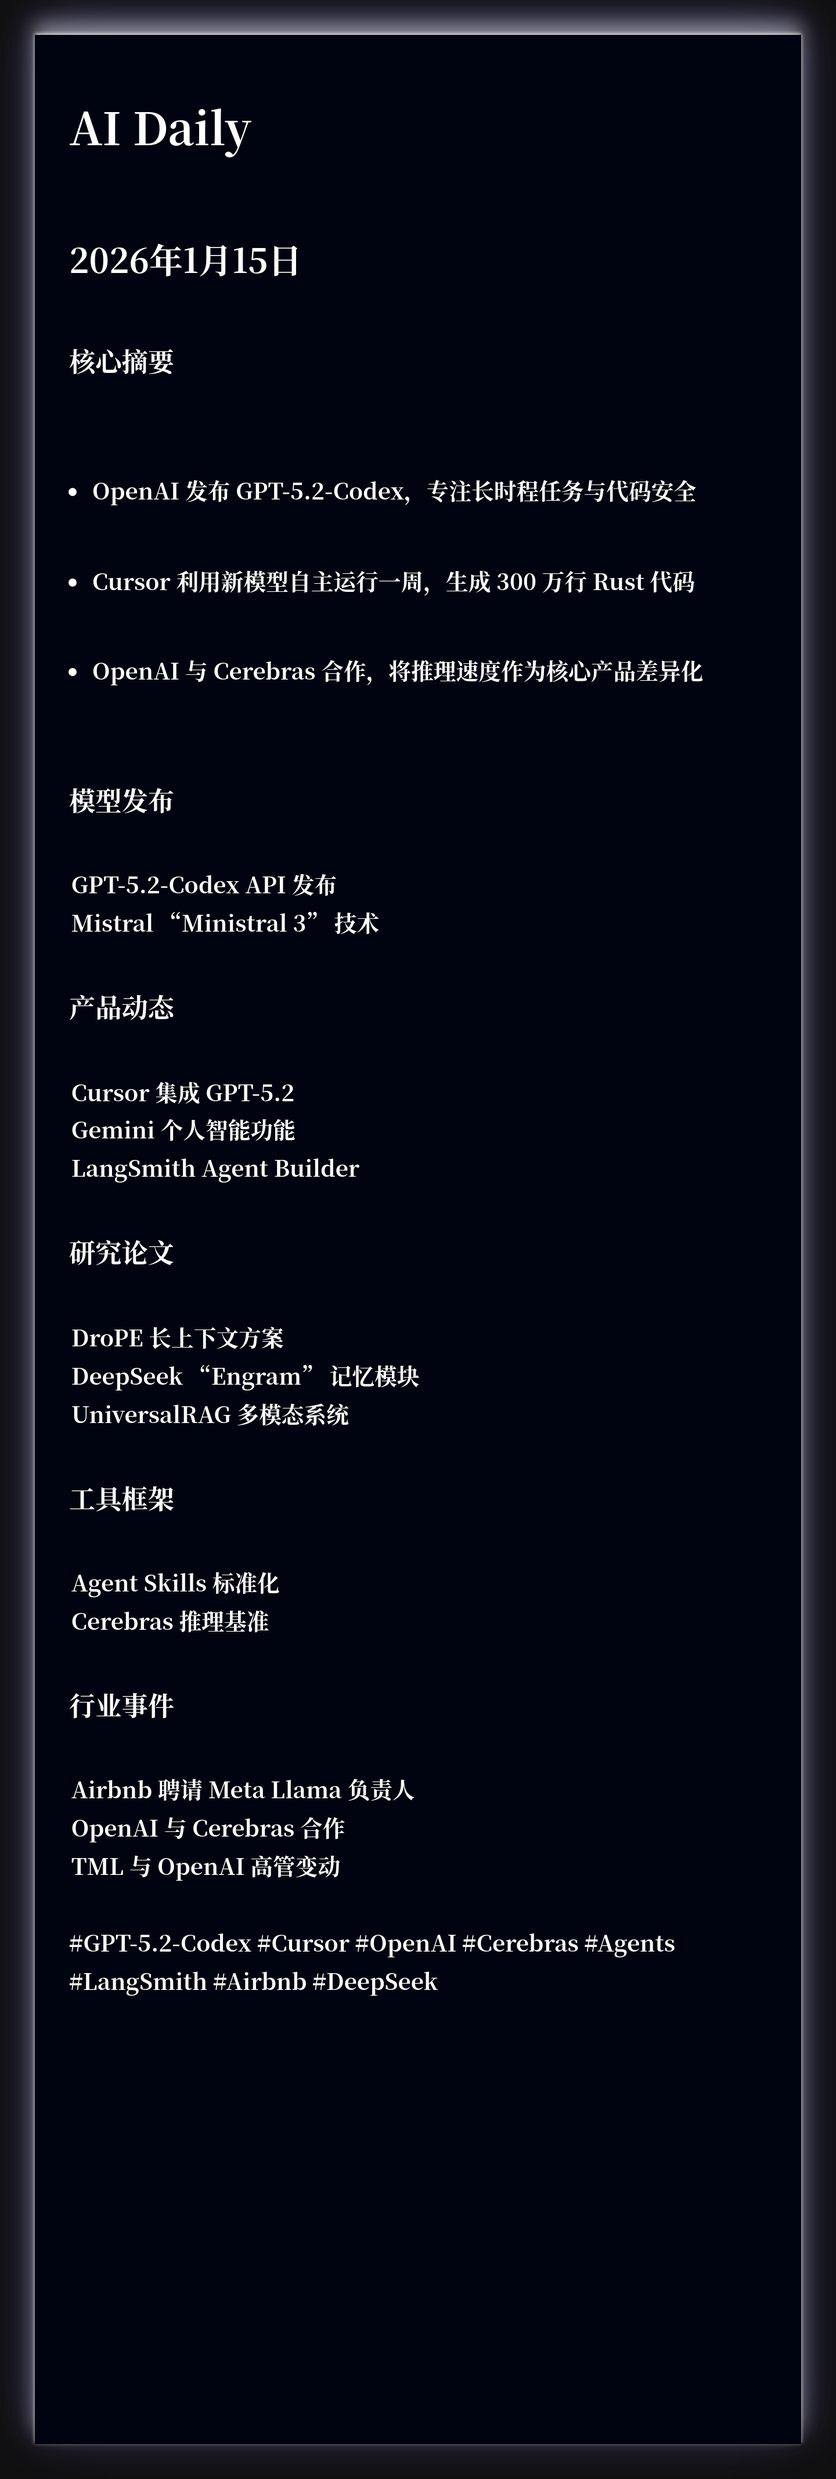
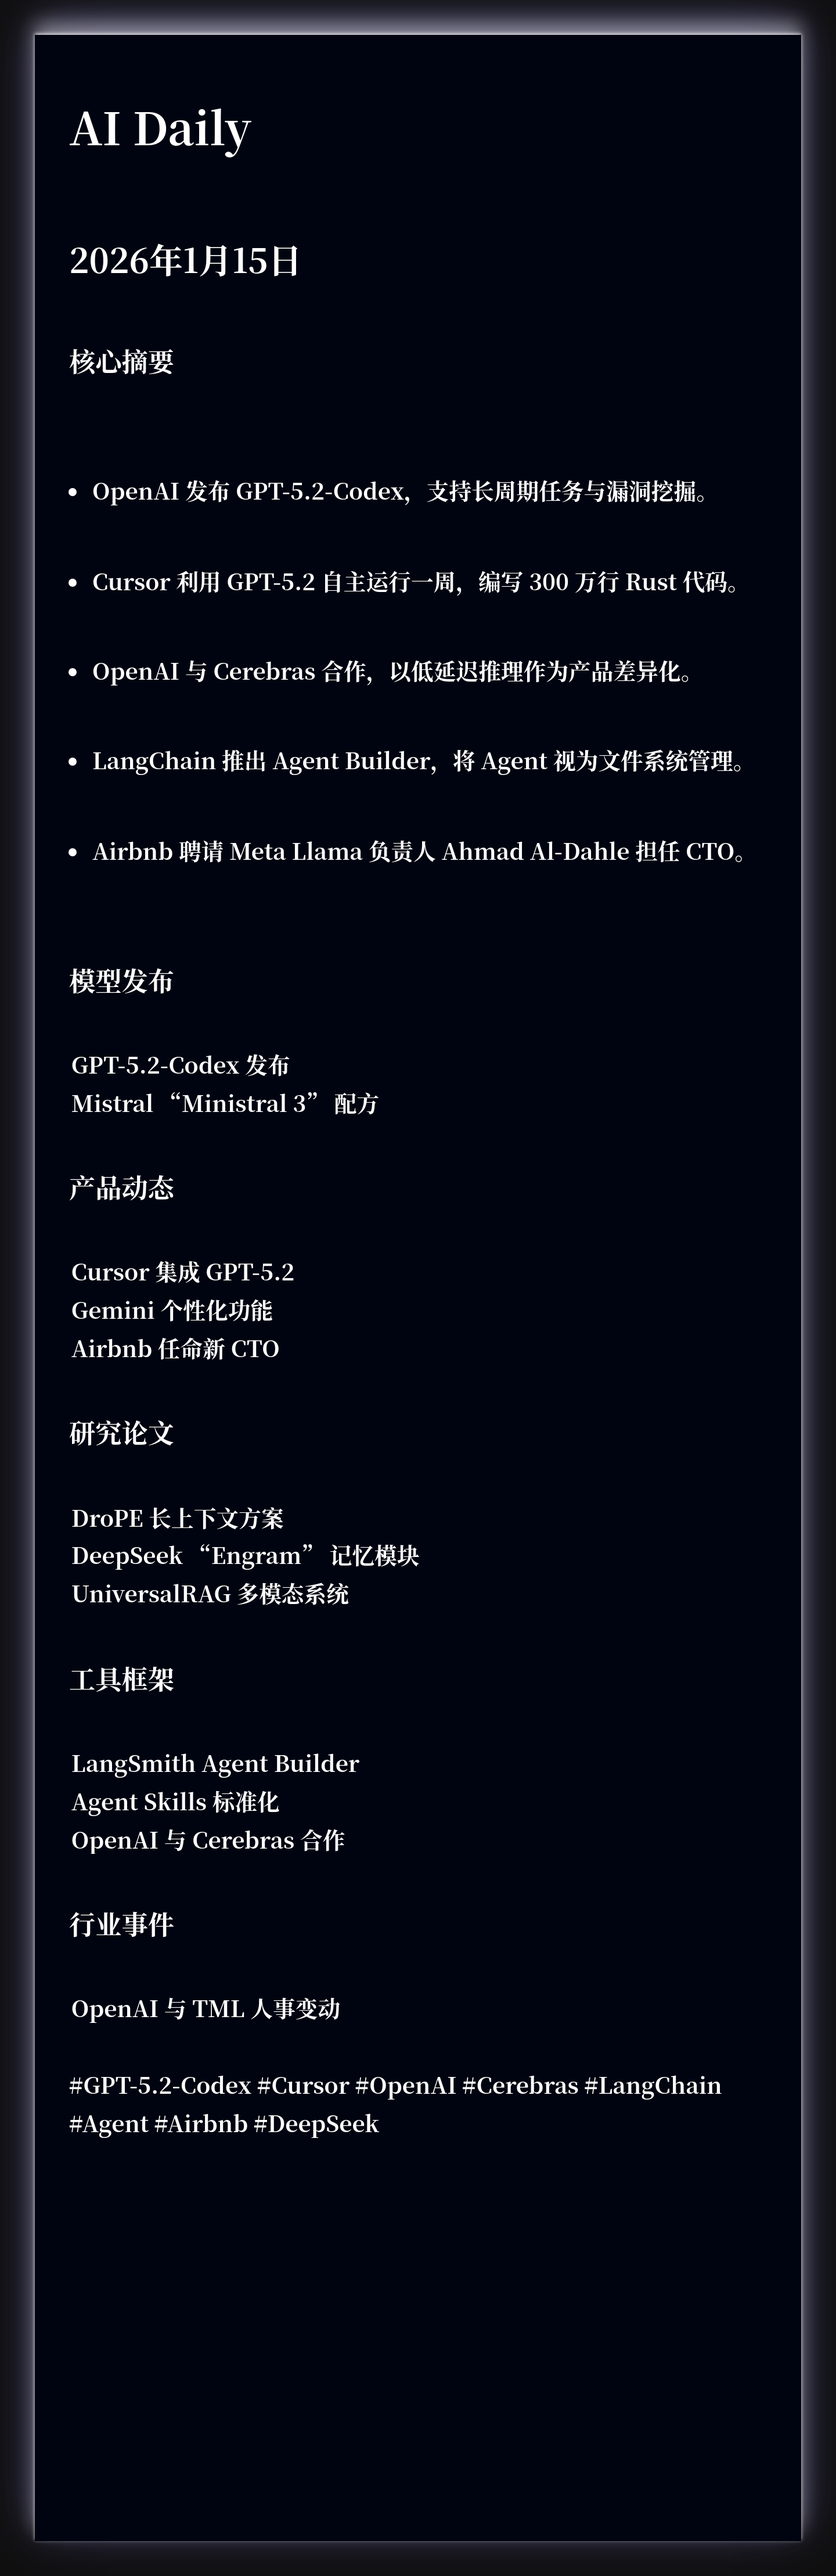
🤖 Auto update AI Daily - {{ date }} ad01645f703d705dcbc97d370f682ebb259aa11e

diff --git a/2026-01-15.html b/2026-01-15.html
@@ -5,7 +5,7 @@
     <meta name="viewport" content="width=device-width, initial-scale=1.0">
     <title>AI Daily · 2026年1月15日 星期四</title>
     <meta name="description" content="每日 AI 前沿资讯，智能分类，快速掌握核心动态">
-    <meta name="keywords" content="GPT-5.2-Codex, Cursor, OpenAI, Cerebras, Agents, LangSmith, Airbnb, DeepSeek, AI, 人工智能, 机器学习, 深度学习, 资讯, 日报">
+    <meta name="keywords" content="GPT-5.2-Codex, Cursor, OpenAI, Cerebras, LangChain, Agent, Airbnb, DeepSeek, Mistral, Gemini, AI, 人工智能, 机器学习, 深度学习, 资讯, 日报">
     <link rel="stylesheet" href="css/styles.css">
 </head>
 <body data-theme="blue">
@@ -24,9 +24,11 @@
             <section class="summary-card">
                 <h2 class="section-title">📌 今日核心摘要</h2>
                 <ul class="summary-list">
-                <li class="summary-item">OpenAI 发布 GPT-5.2-Codex，专注长时程任务与代码安全</li>
-                <li class="summary-item">Cursor 利用新模型自主运行一周，生成 300 万行 Rust 代码</li>
-                <li class="summary-item">OpenAI 与 Cerebras 合作，将推理速度作为核心产品差异化</li>
+                <li class="summary-item">OpenAI 发布 GPT-5.2-Codex，支持长周期任务与漏洞挖掘。</li>
+                <li class="summary-item">Cursor 利用 GPT-5.2 自主运行一周，编写 300 万行 Rust 代码。</li>
+                <li class="summary-item">OpenAI 与 Cerebras 合作，以低延迟推理作为产品差异化。</li>
+                <li class="summary-item">LangChain 推出 Agent Builder，将 Agent 视为文件系统管理。</li>
+                <li class="summary-item">Airbnb 聘请 Meta Llama 负责人 Ahmad Al-Dahle 担任 CTO。</li>
                 </ul>
             </section>
 
@@ -41,19 +43,19 @@
 
                 <article class="news-card">
                     <div class="news-card-header">
-                        <h3 class="news-title">GPT-5.2-Codex API 发布</h3>
+                        <h3 class="news-title">GPT-5.2-Codex 发布</h3>
                         <a href="https://twitter.com/OpenAIDevs/status/2011499597169115219" class="item-link" target="_blank" rel="noopener">详情</a>
                     </div>
-                    <p class="news-summary">OpenAI 推出最强代码模型，支持长时程任务与漏洞挖掘</p>
+                    <p class="news-summary">OpenAI 推出最强代码模型，专注长周期任务与代码漏洞挖掘。</p>
                     <div class="item-tags"><span class="tag">#OpenAI</span> <span class="tag">#GPT-5.2</span> <span class="tag">#Codex</span></div>
                 </article>
 
                 <article class="news-card">
                     <div class="news-card-header">
-                        <h3 class="news-title">Mistral "Ministral 3" 技术</h3>
+                        <h3 class="news-title">Mistral "Ministral 3" 配方</h3>
                         <a href="https://twitter.com/eliebakouch/status/2011548952676499480" class="item-link" target="_blank" rel="noopener">详情</a>
                     </div>
-                    <p class="news-summary">公开小模型配方，强调剪枝与蒸馏技术及具体启发式方法</p>
+                    <p class="news-summary">公布基于剪枝和蒸馏的小模型技术报告，包含具体剪枝启发式算法。</p>
                     <div class="item-tags"><span class="tag">#Mistral</span> <span class="tag">#Pruning</span> <span class="tag">#Distillation</span></div>
                 </article>
 
@@ -73,26 +75,26 @@
                         <h3 class="news-title">Cursor 集成 GPT-5.2</h3>
                         <a href="https://twitter.com/cursor_ai/status/2011500027945033904" class="item-link" target="_blank" rel="noopener">详情</a>
                     </div>
-                    <p class="news-summary">集成新模型并展示自主运行一周构建浏览器的案例</p>
-                    <div class="item-tags"><span class="tag">#Cursor</span> <span class="tag">#Agents</span> <span class="tag">#Autonomous</span></div>
+                    <p class="news-summary">Cursor 集成新模型并展示 Agent 自主运行一周构建浏览器的案例。</p>
+                    <div class="item-tags"><span class="tag">#Cursor</span> <span class="tag">#Agent</span> <span class="tag">#IDE</span></div>
                 </article>
 
                 <article class="news-card">
                     <div class="news-card-header">
-                        <h3 class="news-title">Gemini 个人智能功能</h3>
+                        <h3 class="news-title">Gemini 个性化功能</h3>
                         <a href="https://twitter.com/Google/status/2011473056921706852" class="item-link" target="_blank" rel="noopener">详情</a>
                     </div>
-                    <p class="news-summary">Google 连接 Gmail 和 Photos 等应用推出个性化功能</p>
+                    <p class="news-summary">Google 推出 Gemini Personal Intelligence，连接 Gmail、Photos 等应用数据。</p>
                     <div class="item-tags"><span class="tag">#Google</span> <span class="tag">#Gemini</span> <span class="tag">#Personalization</span></div>
                 </article>
 
                 <article class="news-card">
                     <div class="news-card-header">
-                        <h3 class="news-title">LangSmith Agent Builder</h3>
-                        <a href="https://twitter.com/LangChain/status/2011501888735494184" class="item-link" target="_blank" rel="noopener">详情</a>
+                        <h3 class="news-title">Airbnb 任命新 CTO</h3>
+                        <a href="https://twitter.com/Ahmad_Al_Dahle/status/2011440460821320056" class="item-link" target="_blank" rel="noopener">详情</a>
                     </div>
-                    <p class="news-summary">LangChain 发布代理构建器，支持技能、内存和子代理</p>
-                    <div class="item-tags"><span class="tag">#LangChain</span> <span class="tag">#Agents</span> <span class="tag">#Builder</span></div>
+                    <p class="news-summary">Meta Llama 项目负责人 Ahmad Al-Dahle 离职并加入 Airbnb 担任 CTO。</p>
+                    <div class="item-tags"><span class="tag">#Airbnb</span> <span class="tag">#Meta</span> <span class="tag">#CTO</span></div>
                 </article>
 
                 </div>
@@ -111,16 +113,16 @@
                         <h3 class="news-title">DroPE 长上下文方案</h3>
                         <a href="https://twitter.com/gabriberton/status/2011326182986564090" class="item-link" target="_blank" rel="noopener">详情</a>
                     </div>
-                    <p class="news-summary">提出移除 RoPE 并微调的简单配方，改善长上下文行为</p>
+                    <p class="news-summary">研究提出移除 RoPE 并微调无位置嵌入模型，改善长上下文行为。</p>
                     <div class="item-tags"><span class="tag">#RoPE</span> <span class="tag">#Long Context</span> <span class="tag">#Fine-tuning</span></div>
                 </article>
 
                 <article class="news-card">
                     <div class="news-card-header">
                         <h3 class="news-title">DeepSeek "Engram" 记忆模块</h3>
-                        <a href="https://twitter.com/ZhihuFrontier/status/2011357373772845097" class="item-link" target="_blank" rel="noopener">详情</a>
+                        <a href="https://twitter.com/LiorOnAI/status/2011468534887469448" class="item-link" target="_blank" rel="noopener">详情</a>
                     </div>
-                    <p class="news-summary">探讨分离思考与记忆，使用稀疏存储进行 O(1) 查找</p>
+                    <p class="news-summary">探讨将思考与记忆分离，利用 MoE 计算与 Engram 稀疏存储机制。</p>
                     <div class="item-tags"><span class="tag">#DeepSeek</span> <span class="tag">#Memory</span> <span class="tag">#MoE</span></div>
                 </article>
 
@@ -129,7 +131,7 @@
                         <h3 class="news-title">UniversalRAG 多模态系统</h3>
                         <a href="https://twitter.com/omarsar0/status/2011442693134754243" class="item-link" target="_blank" rel="noopener">详情</a>
                     </div>
-                    <p class="news-summary">提出模态感知路由和跨模态检索，在 10 个基准测试中获胜</p>
+                    <p class="news-summary">提出模态感知路由与跨模态检索策略，在 10 个基准测试中获胜。</p>
                     <div class="item-tags"><span class="tag">#RAG</span> <span class="tag">#Multimodal</span> <span class="tag">#Retrieval</span></div>
                 </article>
 
@@ -140,26 +142,35 @@
                 <div class="category-header">
                     <span class="category-icon">🛠</span>
                     <h2 class="category-title">工具框架</h2>
-                    <span class="category-count">2</span>
+                    <span class="category-count">3</span>
                 </div>
                 <div class="news-grid">
+
+                <article class="news-card">
+                    <div class="news-card-header">
+                        <h3 class="news-title">LangSmith Agent Builder</h3>
+                        <a href="https://twitter.com/LangChain/status/2011501888735494184" class="item-link" target="_blank" rel="noopener">详情</a>
+                    </div>
+                    <p class="news-summary">LangChain 发布 Agent 构建工具，支持文件系统管理、记忆与技能加载。</p>
+                    <div class="item-tags"><span class="tag">#LangChain</span> <span class="tag">#Agent</span> <span class="tag">#Builder</span></div>
+                </article>
 
                 <article class="news-card">
                     <div class="news-card-header">
                         <h3 class="news-title">Agent Skills 标准化</h3>
                         <a href="https://twitter.com/_philschmid/status/2011345054343053370" class="item-link" target="_blank" rel="noopener">详情</a>
                     </div>
-                    <p class="news-summary">推出标准化文件夹结构，作为跨生态系统的可移植性层</p>
-                    <div class="item-tags"><span class="tag">#Skills</span> <span class="tag">#MCP</span> <span class="tag">#Standardization</span></div>
+                    <p class="news-summary">推出标准化技能文件夹结构，兼容 Gemini CLI、Claude Code 等生态。</p>
+                    <div class="item-tags"><span class="tag">#Skills</span> <span class="tag">#Standardization</span> <span class="tag">#CLI</span></div>
                 </article>
 
                 <article class="news-card">
                     <div class="news-card-header">
-                        <h3 class="news-title">Cerebras 推理基准</h3>
-                        <a href="https://twitter.com/ArtificialAnlys/status/2011581689567592641" class="item-link" target="_blank" rel="noopener">详情</a>
+                        <h3 class="news-title">OpenAI 与 Cerebras 合作</h3>
+                        <a href="https://twitter.com/cerebras/status/2011531740804964855" class="item-link" target="_blank" rel="noopener">详情</a>
                     </div>
-                    <p class="news-summary">GLM-4.7 基准测试显示 Cerebras 在速度和延迟上领先</p>
-                    <div class="item-tags"><span class="tag">#Cerebras</span> <span class="tag">#Inference</span> <span class="tag">#Benchmark</span></div>
+                    <p class="news-summary">双方达成合作，强调低延迟和高吞吐量是 ChatGPT 体验的关键。</p>
+                    <div class="item-tags"><span class="tag">#Cerebras</span> <span class="tag">#Inference</span> <span class="tag">#Infrastructure</span></div>
                 </article>
 
                 </div>
@@ -169,34 +180,16 @@
                 <div class="category-header">
                     <span class="category-icon">🏆</span>
                     <h2 class="category-title">行业事件</h2>
-                    <span class="category-count">3</span>
+                    <span class="category-count">1</span>
                 </div>
                 <div class="news-grid">
 
                 <article class="news-card">
                     <div class="news-card-header">
-                        <h3 class="news-title">Airbnb 聘请 Meta Llama 负责人</h3>
-                        <a href="https://twitter.com/Ahmad_Al_Dahle/status/2011440460821320056" class="item-link" target="_blank" rel="noopener">详情</a>
+                        <h3 class="news-title">OpenAI 与 TML 人事变动</h3>
+                        <a href="https://twitter.com/miramurati/status/2011577319295692801" class="item-link" target="_blank" rel="noopener">详情</a>
                     </div>
-                    <p class="news-summary">Ahmad Al-Dahle 离开 Meta 加入 Airbnb 担任 CTO</p>
-                    <div class="item-tags"><span class="tag">#Airbnb</span> <span class="tag">#Meta</span> <span class="tag">#CTO</span></div>
-                </article>
-
-                <article class="news-card">
-                    <div class="news-card-header">
-                        <h3 class="news-title">OpenAI 与 Cerebras 合作</h3>
-                        <a href="https://twitter.com/cerebras/status/2011531740804964855" class="item-link" target="_blank" rel="noopener">详情</a>
-                    </div>
-                    <p class="news-summary">双方宣布合作伙伴关系，聚焦于降低延迟和提高吞吐量</p>
-                    <div class="item-tags"><span class="tag">#OpenAI</span> <span class="tag">#Cerebras</span> <span class="tag">#Partnership</span></div>
-                </article>
-
-                <article class="news-card">
-                    <div class="news-card-header">
-                        <h3 class="news-title">TML 与 OpenAI 高管变动</h3>
-                        <a href="https://twitter.com/barret_zoph/status/2011593621435531355" class="item-link" target="_blank" rel="noopener">详情</a>
-                    </div>
-                    <p class="news-summary">Barret Zoph 离开 Thinking Machines Lab 并重返 OpenAI</p>
+                    <p class="news-summary">Barret Zoph 离开 Thinking Machines Lab，Soumith Chintala 接任 CTO。</p>
                     <div class="item-tags"><span class="tag">#OpenAI</span> <span class="tag">#Leadership</span> <span class="tag">#Churn</span></div>
                 </article>
 
@@ -205,7 +198,7 @@
 
 
         <footer class="keywords-footer">
-            <p>#关键词: GPT-5.2-Codex | Cursor | OpenAI | Cerebras | Agents | LangSmith | Airbnb | DeepSeek</p>
+            <p>#关键词: GPT-5.2-Codex | Cursor | OpenAI | Cerebras | LangChain | Agent | Airbnb | DeepSeek | Mistral | Gemini</p>
         </footer>
 
         </main>

diff --git a/xiaohongshu/xhs-2026-01-15.html b/xiaohongshu/xhs-2026-01-15.html
@@ -318,7 +318,7 @@
                 <div class="title-section">
                     <div class="main-title">GPT · OpenAI</div>
                     <div class="divider"></div>
-                    <div class="subtitle">OpenAI 发布 GPT-5.2-Codex，专...</div>
+                    <div class="subtitle">OpenAI 发布 GPT-5.2-Codex，支...</div>
 
                     <!-- 亮点 -->
                     <div class="highlights">
@@ -329,7 +329,7 @@
                 <!-- 底部区域 -->
                 <div class="bottom-section">
                     <div class="keywords">
-                        <span class="keyword-tag">#GPT-5.2-Codex</span><span class="keyword-tag">#Cursor</span><span class="keyword-tag">#OpenAI</span><span class="keyword-tag">#Cerebras</span><span class="keyword-tag">#Agents</span>
+                        <span class="keyword-tag">#GPT-5.2-Codex</span><span class="keyword-tag">#Cursor</span><span class="keyword-tag">#OpenAI</span><span class="keyword-tag">#Cerebras</span><span class="keyword-tag">#LangChain</span>
                     </div>
                     <div class="account-info">
                         <div class="account-name">极客杰尼</div>

diff --git a/index.html b/index.html
@@ -29,7 +29,7 @@
                         <span class="entry-date">2026年1月15日 星期四</span>
                         <span class="entry-arrow">→</span>
                     </div>
-                    <p class="entry-summary">OpenAI 发布 GPT-5.2-Codex，专注长时程任务与代码安全</p>
+                    <p class="entry-summary">OpenAI 发布 GPT-5.2-Codex，支持长周期任务与漏洞挖掘。</p>
                 </a>
             </article>
 
